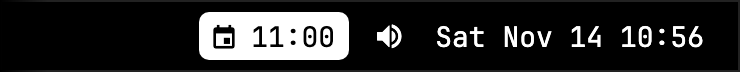
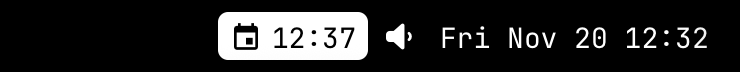
docs: take Setup's bar previews from the real bar
The bar strips were rendered from the design prototype's mock bar.
They're now taken from the real one, and the tiling preview is the
README's own workspace screenshot.

Changed region(s): [[0.2486, 0.1667, 0.5595, 0.8333], [0.5905, 0.3611, 0.9635, 0.6667], [0.0311, 0.0, 1.0, 1.0]]

diff --git a/install/setup/SetupModel.swift b/install/setup/SetupModel.swift
@@ -37,9 +37,9 @@ struct SetupKeys {
 
 // One thing a step turns on, as the column beside the steps shows it: the app that powers it,
 // what it is, images of it, its keys and a note. key is the permission that powers it, ticked
-// once granted. Images are paths in omv's folder: a card's is the README's own, from docs/,
-// which docs/shoot.sh takes from the real card; the desktop and the bar, which aren't cards,
-// are in install/setup/previews.
+// once granted. Images are paths in omv's folder: the README's own from docs/, which
+// docs/shoot.sh takes from the real cards, or a strip of the bar in install/setup/previews,
+// taken by hand as docs/shoot.sh says.
 struct SetupPart {
   let app: String
   let what: String
@@ -142,7 +142,7 @@ enum SetupModel {
         SetupPermission(key: "hammerspoon.accessibility", app: "Hammerspoon", appPath: hammerspoon, way: .drag,
           role: "volume and brightness pop-ups"),
       ], needed: true, parts: [
-        SetupPart(app: "AeroSpace", what: "tiles every window", key: "aerospace.accessibility", images: ["install/setup/previews/accessibility-1.png"], keys: [
+        SetupPart(app: "AeroSpace", what: "tiles every window", key: "aerospace.accessibility", images: ["docs/workspace-1.png"], keys: [
           SetupKeys(keys: ["⌥", "H", "J", "K", "L"], does: "focus left, down, up, right"),
           SetupKeys(keys: ["⌥", "⇧", "H", "J", "K", "L"], does: "move the window"),
           SetupKeys(keys: ["⌥", "1–7"], does: "go to a workspace"),
